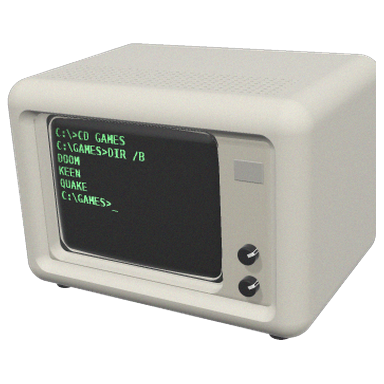
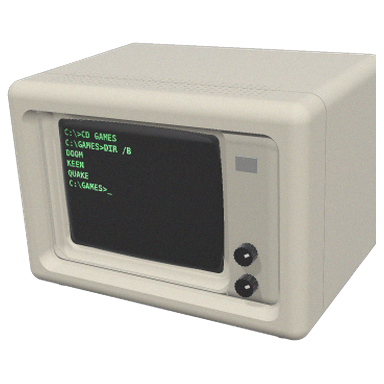
Ports' 5151: its colours, bevels, seam, knurled knobs, vents and sharper text
Claude-Session: https://claude.ai/code/session_01TGGsTE1DNkb6MQqq6tNzFj

diff --git a/tools/genportscard.py b/tools/genportscard.py
@@ -91,8 +91,8 @@ def classic():
 # nameplate is blank: the shelf names no maker. Lit as AMOS lights (raymarch).
 
 M = rm.rot(6, -30, 0)
-PEARL = (222, 218, 203)
-PANEL = (203, 198, 181)
+PEARL = (219, 212, 192)      # the case, IBM's warm putty, a little aged
+PANEL = (194, 189, 172)      # the recessed panel, a shade greyer
 SW, SH = 1.24, 0.96          # the tube's face, half sizes
 SX, SY = -0.30, 0.02         # its middle, left of the case's
 FZ = 0.78                    # the case's front
@@ -103,18 +103,18 @@ def screen_picture():
     listing (DIR /B, MS-DOS 5 on) of three games that are DOS games and
     PortMaster ports alike, and the prompt waiting. In a monospace face drawn
     small and blown up square, as a CRT's text mode is."""
-    n = 250                                   # drawn at a quarter, then x4
+    n = 500                                   # drawn at a half, then x2
     w, h = n, int(n * SH / SW)
     im = Image.new("RGB", (w, h), (12, 20, 14))
     d = ImageDraw.Draw(im)
-    f = ImageFont.truetype(MONO, 15)
+    f = ImageFont.truetype(MONO, 23)
     g = (120, 255, 140)
     lines = ["C:\\>CD GAMES", "C:\\GAMES>DIR /B", "DOOM", "KEEN", "QUAKE", "C:\\GAMES>_"]
     for k, t in enumerate(lines):
-        d.text((16, 14 + k * 17), t, font=f, fill=g)
+        d.text((38, 34 + k * 28), t, font=f, fill=g)
     im = im.convert("L").point(lambda v: 255 if v > 90 else 0)   # hard pixels, no grey edges
     im = Image.merge("RGB", [im.point(lambda v: 12 + v * (c - 12) // 255) for c in g])
-    im = im.resize((w * 4, h * 4), Image.NEAREST)
+    im = im.resize((w * 2, h * 2), Image.NEAREST)
     a = np.asarray(im, np.float64)
     a[::4] *= 0.78                            # scanlines
     hh, ww = a.shape[:2]
@@ -131,60 +131,87 @@ def frame(p):
     return rm.local(p, (0, 0, 0), M)
 
 
+def tapered_hole(q, c, front, back, z_front, z_back, r):
+    """A rounded box whose sides slope: half sizes `front` at z_front, `back`
+    at z_back - the funnel a moulded bezel steps down through"""
+    qb = q - c
+    t = np.clip((z_front - q[..., 2]) / (z_front - z_back), 0, 1)
+    hb = np.stack([front[0] + (back[0] - front[0]) * t - r, front[1] + (back[1] - front[1]) * t - r,
+                   np.full_like(t, (z_front - z_back) / 2)], -1)
+    qb = np.stack([qb[..., 0], qb[..., 1], q[..., 2] - (z_front + z_back) / 2], -1)
+    db = np.abs(qb) - hb
+    db[..., 2] = np.abs(qb[..., 2]) - (z_front - z_back) / 2
+    return np.linalg.norm(np.maximum(db, 0), axis=-1) + np.minimum(db.max(-1), 0) - r
+
+
+KX = 1.30                    # the knobs' and nameplate's column
+KY = (-0.40, -0.80)          # contrast above brightness
+
+
 def knob_face(q):
-    """black, with a white mark at one o'clock, as the 5151's knobs have"""
-    out = np.broadcast_to((np.array([24, 24, 26], np.float64) / 255.0) ** 2.2, q.shape).copy()
-    for ky in (-0.36, -0.76):
-        dx, dy = q[:, 0] - 1.36, q[:, 1] - ky
-        mark = (np.abs(dx * 0.5 - dy * 0.866) < 0.02) & (dx * 0.866 + dy * 0.5 > 0.03) & \
-               (dx * 0.866 + dy * 0.5 < 0.11) & (q[:, 2] > FZ - 0.2)
-        out[mark] = (np.array([235, 235, 230]) / 255.0) ** 2.2
+    """black, knurled, with a white mark at one o'clock on its face"""
+    out = np.broadcast_to((np.array([22, 22, 24], np.float64) / 255.0) ** 2.2, q.shape).copy()
+    for ky in KY:
+        dx, dy = q[:, 0] - KX, q[:, 1] - ky
+        mark = (np.abs(dx * 0.5 - dy * 0.866) < 0.018) & (dx * 0.866 + dy * 0.5 > 0.02) & \
+               (dx * 0.866 + dy * 0.5 < 0.085) & (q[:, 2] > FZ - 0.12)
+        out[mark] = (np.array([236, 234, 226]) / 255.0) ** 2.2
     return out
 
 
-MATS = [rm.Mat(PEARL, gloss=0.30, spec=0.4),                                 # 0 case
-        rm.Mat(lambda p: SCREEN(frame(p)), gloss=0.85, spec=0.5, emit=0.9),  # 1 the tube's glass
-        rm.Mat((48, 50, 48), gloss=0.25, spec=0.3),                          # 2 the step round the tube, vent holes
-        rm.Mat(lambda p: knob_face(frame(p)), gloss=0.45, spec=0.5),         # 3 knobs
-        rm.Mat(PANEL, gloss=0.28, spec=0.35),                                # 4 the recessed panel
-        rm.Mat((178, 176, 168), gloss=0.5, spec=0.6),                        # 5 nameplate
-        rm.Mat((40, 40, 42), gloss=0.2, spec=0.2)]                           # 6 feet
+MATS = [rm.Mat(PEARL, gloss=0.26, spec=0.35),                                # 0 case
+        rm.Mat(lambda p: SCREEN(frame(p)), gloss=0.9, spec=0.5, emit=0.9),   # 1 the tube's glass
+        rm.Mat((44, 46, 44), gloss=0.25, spec=0.3),                          # 2 the dark round the tube
+        rm.Mat(lambda p: knob_face(frame(p)), gloss=0.4, spec=0.45),         # 3 knobs
+        rm.Mat(PANEL, gloss=0.24, spec=0.3),                                 # 4 the recessed panel
+        rm.Mat((186, 186, 182), gloss=0.55, spec=0.6, metal=True),           # 5 nameplate, brushed
+        rm.Mat((36, 36, 38), gloss=0.2, spec=0.2)]                           # 6 feet
 
 
 def scene(p):
     q = frame(p)
-    # the case: wide and deep, its front edges deeply rounded
-    case = rm.box(q - [0, 0, -0.75], (2.05, 1.42, 1.53), 0.32)
-    # the frame's opening, and the panel set back in it
-    hole = rm.box(q - [0.0, -0.02, FZ], (1.74, 1.12, 0.16), 0.2)
+    # the case: wide and deep, its front edges rounded
+    case = rm.box(q - [0, 0, -0.75], (2.05, 1.42, 1.53), 0.2)
+    # the seam where the front bezel meets the shell, round the sides and top
+    seam = np.maximum(np.abs(q[..., 2] - (FZ - 0.62)) - 0.012, -rm.box(q - [0, 0, -0.75], (2.03, 1.40, 2.0), 0.18))
+    case = np.maximum(case, -seam)
+    # the frame's opening, its walls sloping in, and the panel at its back
+    hole = tapered_hole(q, np.array([0.0, -0.03, 0]), (1.80, 1.16), (1.70, 1.07), FZ + 0.1, FZ - 0.17, 0.2)
     case = np.maximum(case, -hole)
-    panel = rm.box(q - [0.0, -0.02, FZ - 0.2], (1.76, 1.14, 0.06), 0.2)
-    # the tube's opening in the panel, a dark step, and the bulging glass
-    tw = rm.box(q - [SX, SY, FZ - 0.14], (SW + 0.06, SH + 0.06, 0.3), 0.2)
+    panel = rm.box(q - [0.0, -0.03, FZ - 0.2], (1.72, 1.09, 0.04), 0.18)
+    # the tube's opening in the panel, sloping down to the glass
+    tw = tapered_hole(q, np.array([SX, SY, 0]), (SW + 0.12, SH + 0.12), (SW + 0.02, SH + 0.02),
+                      FZ - 0.14, FZ - 0.36, 0.2)
     panel = np.maximum(panel, -tw)
     case = np.maximum(case, -tw)
-    step = rm.box(q - [SX, SY, FZ - 0.3], (SW + 0.1, SH + 0.1, 0.03), 0.22)
-    step = np.maximum(step, -rm.box(q - [SX, SY, FZ - 0.3], (SW - 0.02, SH - 0.02, 0.2), 0.2))
-    bulge = 0.06 * (1 - (((q[..., 0] - SX) / SW) ** 2 + ((q[..., 1] - SY) / SH) ** 2) * 0.5)
-    tube = rm.box(q - [SX, SY, FZ - 0.32], (SW + 0.02, SH + 0.02, 0.03), 0.2) - bulge
-    # the strip at the right: nameplate and two knobs
-    plate = rm.box(q - [1.36, 0.62, FZ - 0.13], (0.17, 0.12, 0.012), 0.01)
-    knobs = np.minimum(rm.cyl(q - [1.36, -0.36, FZ - 0.08], 0.11, 0.07, 0.025, axis=2),
-                       rm.cyl(q - [1.36, -0.76, FZ - 0.08], 0.11, 0.07, 0.025, axis=2))
-    # vent holes across the top, behind the front
-    gx = ((q[..., 0] + 4) % 0.1) - 0.05
-    gz = ((q[..., 2] + 4) % 0.1) - 0.05
-    holes = np.maximum(np.hypot(gx, gz) - 0.022,
-                       np.maximum(np.abs(q[..., 0]) - 1.55, np.abs(q[..., 2] - 0.0) - 0.42))
-    holes = np.maximum(holes, np.abs(q[..., 1] - 1.42) - 0.03)
+    # a groove between the tube's side and the strip at the right
+    groove = np.maximum(np.abs(q[..., 0] - 1.0) - 0.012, np.abs(q[..., 1] + 0.03) - 1.02)
+    panel = np.maximum(panel, -np.maximum(groove, np.abs(q[..., 2] - (FZ - 0.16)) - 0.03))
+    step = rm.box(q - [SX, SY, FZ - 0.36], (SW + 0.04, SH + 0.04, 0.02), 0.2)
+    bulge = 0.05 * (1 - (((q[..., 0] - SX) / SW) ** 2 + ((q[..., 1] - SY) / SH) ** 2) * 0.5)
+    tube = rm.box(q - [SX, SY, FZ - 0.37], (SW, SH, 0.03), 0.2) - bulge
+    # the strip: nameplate high, two knobs low, each in a shallow collar
+    plate = rm.box(q - [KX, 0.68, FZ - 0.155], (0.13, 0.09, 0.01), 0.008)
+    knobs = np.full(q.shape[:-1], 1e9)
+    for ky in KY:
+        kq = q - [KX, ky, FZ - 0.1]
+        ang = np.arctan2(kq[..., 1], kq[..., 0])
+        kr = 0.105 + 0.006 * (np.cos(ang * 18) > 0)            # knurled rim
+        k = np.maximum(np.hypot(kq[..., 0], kq[..., 1]) - kr, np.abs(kq[..., 2]) - 0.07) - 0.01
+        knobs = np.minimum(knobs, k)
+    # vents: a field of small holes across the top, just behind the front
+    gx = ((q[..., 0] + 4) % 0.09) - 0.045
+    gz = ((q[..., 2] + 4) % 0.09) - 0.045
+    holes = np.maximum(np.hypot(gx, gz) - 0.02,
+                       np.maximum(np.abs(q[..., 0]) - 1.45, np.abs(q[..., 2] - (FZ - 0.55)) - 0.3))
+    holes = np.maximum(holes, np.abs(q[..., 1] - 1.42) - 0.035)
     case = np.maximum(case, -holes)
-    # small dark feet at the front corners and back
+    # small dark feet under the corners
     feet = np.full(q.shape[:-1], 1e9)
-    for fx in (-1.6, 1.6):
-        for fz in (0.35, -1.9):
-            feet = np.minimum(feet, rm.cyl(q - [fx, -1.47, fz], 0.14, 0.05, 0.02, axis=1))
-    d = np.stack([case, tube, step,
-                  knobs, panel, plate, feet], -1)
+    for fx in (-1.65, 1.65):
+        for fz in (0.4, -1.95):
+            feet = np.minimum(feet, rm.cyl(q - [fx, -1.46, fz], 0.13, 0.05, 0.02, axis=1))
+    d = np.stack([case, tube, step, knobs, panel, plate, feet], -1)
     return d.min(-1), d.argmin(-1)
 
 
